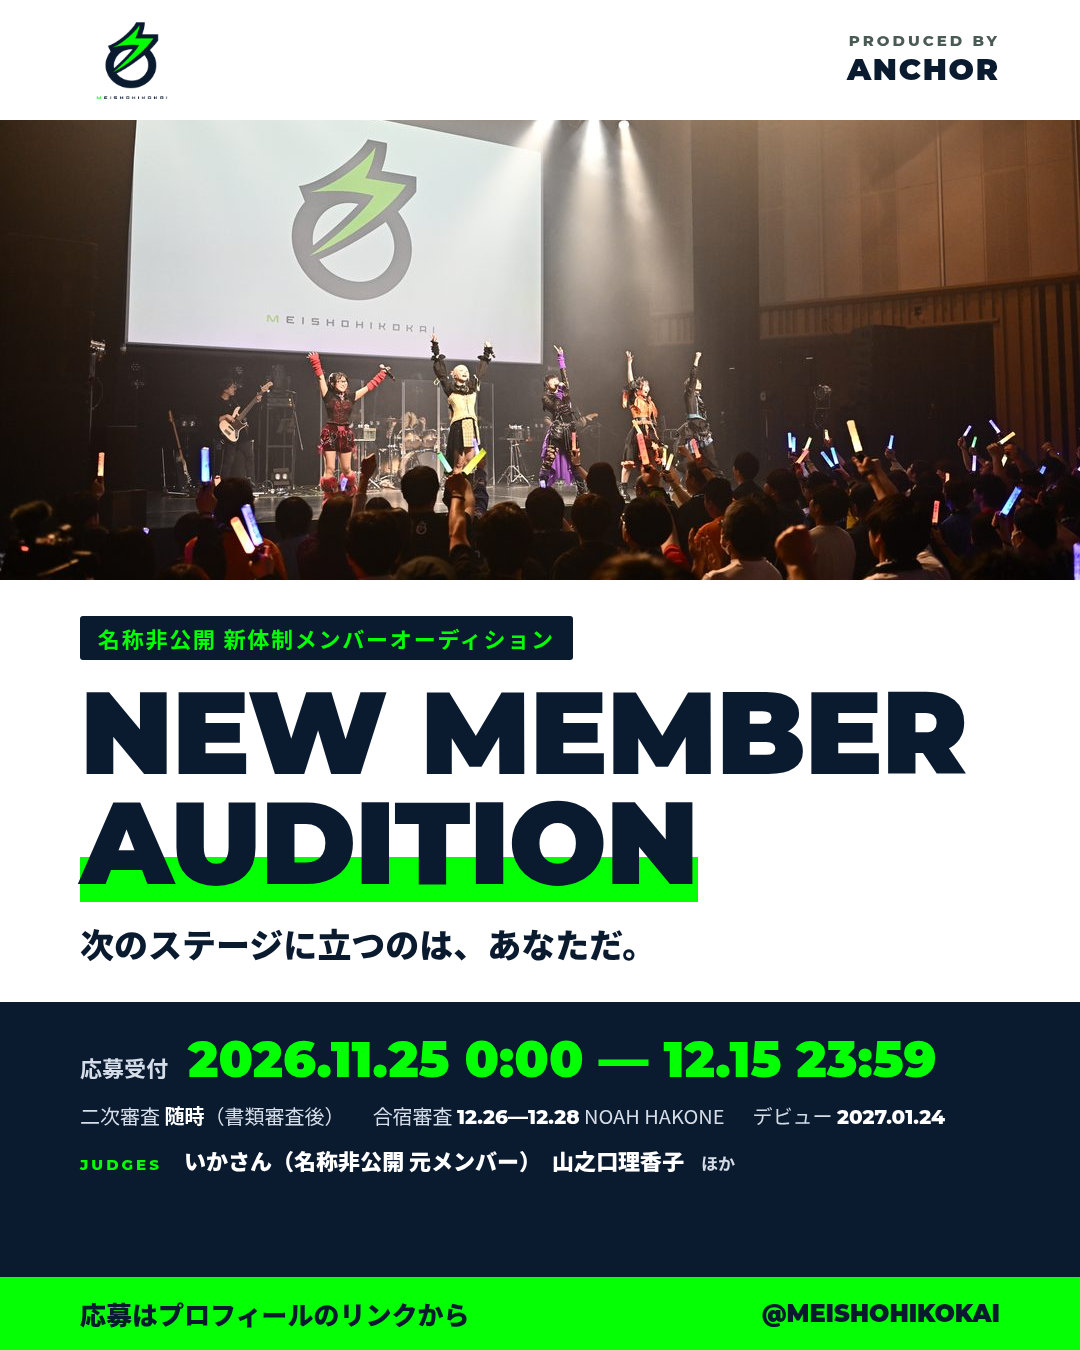
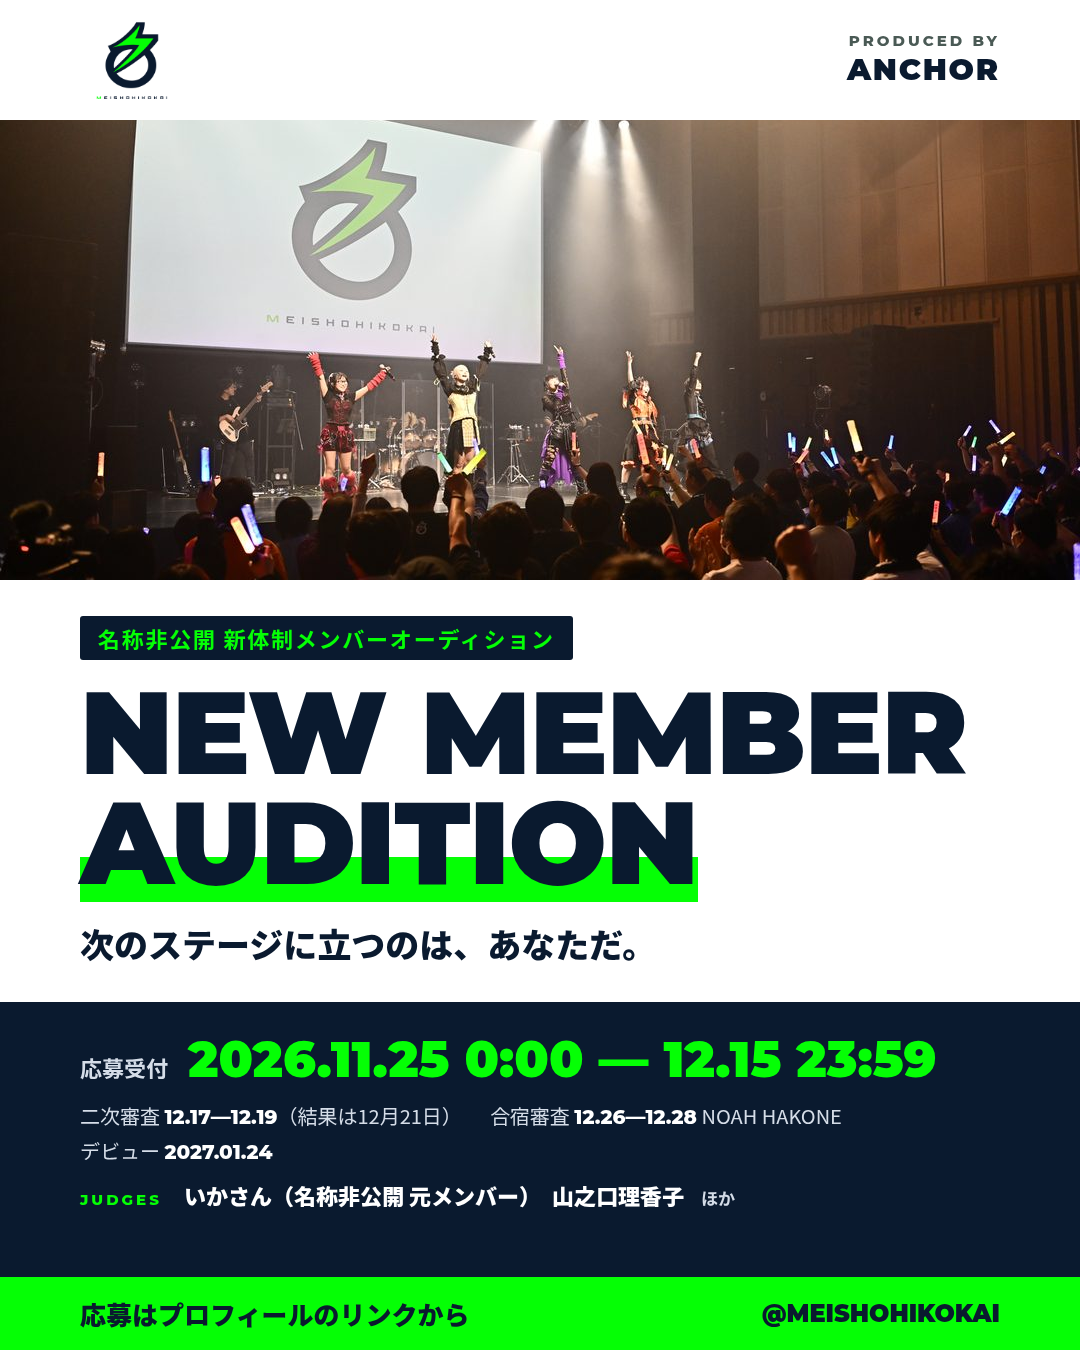
Set second-round dates to Dec 17-19 with results on Dec 21
Replace the rolling "as needed" wording on the landing page, flyer, and SNS assets with the confirmed window and result date. First-round results by Dec 15 and the Dec 26-28 camp stay unchanged.

Changed region(s): [[0.0611, 0.8089, 0.8861, 0.9022]]

diff --git a/index.html b/index.html
@@ -300,7 +300,7 @@ html.has-sticky-entry{padding-bottom:var(--sticky-h,80px)}
 <ol class="stages stagger">
 <li><p class="name">応募受付</p><p class="when">11月25日(水)0:00〜<span class="nowrap">12月15日(火)23:59</span></p><p class="desc">先着順ではありません。</p></li>
 <li><p class="name">一次審査（書類・動画）</p><p class="when">書類・動画による審査</p><p class="result">結果 12月15日(火)までに順次ご連絡</p></li>
-<li><p class="name">二次審査（対面）</p><p class="when">書類審査後、随時実施</p><p class="result">日時は個別にご案内します</p></li>
+<li><p class="name">二次審査（対面）</p><p class="when">12月17日(木)〜19日(土)</p><p class="result">結果 12月21日(月)／日時は個別にご案内します</p></li>
 <li><p class="name">三次審査（合宿・2泊3日）</p><p class="when">12月26日(土)〜28日(月)・NOAH HAKONE（箱根）</p><p class="desc">顔合わせ、グループ課題、最終パフォーマンス。</p></li>
 <li><p class="name">デビュー</p><p class="when">2027年1月24日(日)</p></li>
 <li><p class="name">本格始動</p><p class="when">2027年5月23日(日)</p></li>
@@ -418,7 +418,7 @@ html.has-sticky-entry{padding-bottom:var(--sticky-h,80px)}
 <details class="q"><summary><span class="ql">Q3</span><span class="qtext">審査結果はどのように<span class="nowrap">届きますか？</span></span></summary><div class="answer"><p>審査結果のご連絡は、名称非公開公式LINEから<span class="nowrap">お送りします。</span>一次審査の結果は、12月15日(火)までに通過した方へ順次ご連絡します。公式LINEをブロックしないようにお願いします。SNSでお声がけする場合は、名称非公開の公式アカウントからのみご連絡します。</p></div></details>
 <details class="q"><summary><span class="ql">Q4</span><span class="qtext">他の事務所に所属していても応募できますか？</span></summary><div class="answer"><p>ご応募いただけます。応募後に、所属先へ確認のご連絡をさせていただく場合があります。</p></div></details>
 <details class="q"><summary><span class="ql">Q5</span><span class="qtext">動画はスマートフォンで撮影してもいいですか？</span></summary><div class="answer"><p>問題ありません。秒数の指定はなく、縦・横、曲は自由です。過度な加工は避けてください。</p></div></details>
-<details class="q"><summary><span class="ql">Q6</span><span class="qtext">遠方のため、二次審査に行けないかもしれません。</span></summary><div class="answer"><p>二次審査は書類審査後に随時実施し、日時は個別にご案内します。オンラインでの参加もご相談いただけます。</p></div></details>
+<details class="q"><summary><span class="ql">Q6</span><span class="qtext">遠方のため、二次審査に行けないかもしれません。</span></summary><div class="answer"><p>二次審査は12月17日(木)〜19日(土)に対面で実施します。日時は個別にご案内します。オンラインでの参加もご相談いただけます。</p></div></details>
 <details class="q"><summary><span class="ql">Q7</span><span class="qtext">合宿に参加できない<span class="nowrap">場合は？</span></span></summary><div class="answer"><p>フォームまたは公式LINEでご相談ください。</p></div></details>
 <details class="q"><summary><span class="ql">Q8</span><span class="qtext">合格したら、いつから<span class="nowrap">活動しますか？</span></span></summary><div class="answer"><p>2027年1月24日(日)にデビューし、1月下旬からライブに参加いただきます。5月23日(日)から本格始動します。活動拠点は東京です。</p></div></details>
 <details class="q"><summary><span class="ql">Q9</span><span class="qtext">お問い合わせはどこへすれば<span class="nowrap">いいですか？</span></span></summary><div class="answer"><p><a href="https://lin.ee/9cqyKYC" target="_blank" rel="noopener">公式LINEよりお問い合わせください（対応時間：平日10:00〜18:00。土日祝は翌営業日にご返信します）</a></p><p>メール：<a href="mailto:management@meisho.tokyo">management@meisho.tokyo</a></p></div></details>

diff --git a/flyer_a4.html b/flyer_a4.html
@@ -35,7 +35,7 @@ body{margin:0;background:#FFFFFF}
 <div style="flex: 1 1 auto; min-width: 0; display: flex; flex-direction: column; gap: 18px">
 <div style="display: flex; flex-direction: column; gap: 6px">
 <div style="display: flex; align-items: baseline; gap: 14px; border-bottom: 1px solid #2A3D57; padding-bottom: 6px"><span style="flex: 0 0 132px; font-size: 14px; font-weight: 700; color: #D5DDE8">応募受付</span><span style="font-family: 'Montserrat', sans-serif; font-size: 24px; font-weight: 900; color: var(--accent)">11.25 0:00 — 12.15 23:59</span></div>
-<div style="display: flex; align-items: baseline; gap: 14px; border-bottom: 1px solid #2A3D57; padding-bottom: 6px"><span style="flex: 0 0 132px; font-size: 14px; font-weight: 700; color: #D5DDE8">二次審査（対面）</span><span style="font-family: 'Montserrat', sans-serif; font-size: 18px; font-weight: 800">書類審査後、随時</span><span style="font-size: 12px; color: #D5DDE8">日時は個別にご案内</span></div>
+<div style="display: flex; align-items: baseline; gap: 14px; border-bottom: 1px solid #2A3D57; padding-bottom: 6px"><span style="flex: 0 0 132px; font-size: 14px; font-weight: 700; color: #D5DDE8">二次審査（対面）</span><span style="font-family: 'Montserrat', sans-serif; font-size: 18px; font-weight: 800">12.17 — 12.19</span><span style="font-size: 12px; color: #D5DDE8">結果は12月21日（月）</span></div>
 <div style="display: flex; align-items: baseline; gap: 14px; border-bottom: 1px solid #2A3D57; padding-bottom: 6px"><span style="flex: 0 0 132px; font-size: 14px; font-weight: 700; color: #D5DDE8">三次審査（合宿）</span><span style="font-family: 'Montserrat', sans-serif; font-size: 18px; font-weight: 800">12.26 — 12.28</span><span style="font-size: 12px; color: #D5DDE8">NOAH HAKONE・2泊3日</span></div>
 <div style="display: flex; align-items: baseline; gap: 14px"><span style="flex: 0 0 132px; font-size: 14px; font-weight: 700; color: #D5DDE8">デビュー</span><span style="font-family: 'Montserrat', sans-serif; font-size: 18px; font-weight: 800">2027.01.24</span></div>
 </div>

diff --git a/sns_feed_1080x1350.html b/sns_feed_1080x1350.html
@@ -33,7 +33,7 @@ body{margin:0;background:#FFFFFF}
 
 <div style="flex: 1 1 auto; background: #0A1A2F; color: #FFFFFF; box-sizing: border-box; padding: 30px 80px 0; display: flex; flex-direction: column; gap: 14px">
 <div style="display: flex; align-items: baseline; gap: 20px"><span style="font-size: 22px; font-weight: 700; color: #D5DDE8">応募受付</span><span style="font-family: 'Montserrat', sans-serif; font-size: 50px; font-weight: 900; color: var(--accent); line-height: 1.1">2026.11.25 0:00 — 12.15 23:59</span></div>
-<div style="display: flex; flex-wrap: wrap; gap: 6px 28px; font-size: 20px; color: #D5DDE8"><span>二次審査 <b style="font-family: 'Montserrat', sans-serif; color: #FFFFFF">随時</b>（書類審査後）</span><span>合宿審査 <b style="font-family: 'Montserrat', sans-serif; color: #FFFFFF">12.26—12.28</b> NOAH HAKONE</span><span>デビュー <b style="font-family: 'Montserrat', sans-serif; color: #FFFFFF">2027.01.24</b></span></div>
+<div style="display: flex; flex-wrap: wrap; gap: 6px 28px; font-size: 20px; color: #D5DDE8"><span>二次審査 <b style="font-family: 'Montserrat', sans-serif; color: #FFFFFF">12.17—12.19</b>（結果は12月21日）</span><span>合宿審査 <b style="font-family: 'Montserrat', sans-serif; color: #FFFFFF">12.26—12.28</b> NOAH HAKONE</span><span>デビュー <b style="font-family: 'Montserrat', sans-serif; color: #FFFFFF">2027.01.24</b></span></div>
 <div style="font-size: 22px; font-weight: 900"><span style="font-family: 'Montserrat', sans-serif; font-size: 15px; font-weight: 800; letter-spacing: 0.2em; color: var(--accent)">JUDGES</span>　いかさん（名称非公開 元メンバー）　山之口理香子<span style="font-size: 17px; font-weight: 700; color: #D5DDE8">　ほか</span></div>
 <div style="margin-top: auto; margin-left: -80px; margin-right: -80px; background: var(--accent); color: #0A1A2F; padding: 18px 80px; display: flex; justify-content: space-between; align-items: center">
 <span style="font-size: 26px; font-weight: 900">応募はプロフィールのリンクから</span>

diff --git a/sns_story_1080x1920.html b/sns_story_1080x1920.html
@@ -30,7 +30,7 @@ body{margin:0;background:#FFFFFF}
 <div style="flex: 1 1 auto; background: #0A1A2F; color: #FFFFFF; box-sizing: border-box; padding: 44px 80px 0; display: flex; flex-direction: column; gap: 16px">
 <div style="font-size: 24px; font-weight: 700; color: #D5DDE8">応募受付</div>
 <div style="font-family: 'Montserrat', sans-serif; font-size: 66px; font-weight: 900; color: var(--accent); line-height: 1">11.25 0:00 — 12.15 23:59</div>
-<div style="display: flex; flex-wrap: wrap; gap: 8px 32px; font-size: 24px; color: #D5DDE8; margin-top: 6px"><span>二次審査 <b style="font-family: 'Montserrat', sans-serif; color: #FFFFFF">随時</b>（書類審査後）</span><span>合宿審査 <b style="font-family: 'Montserrat', sans-serif; color: #FFFFFF">12.26—12.28</b> NOAH HAKONE</span><span>デビュー <b style="font-family: 'Montserrat', sans-serif; color: #FFFFFF">2027.01.24</b></span></div>
+<div style="display: flex; flex-wrap: wrap; gap: 8px 32px; font-size: 24px; color: #D5DDE8; margin-top: 6px"><span>二次審査 <b style="font-family: 'Montserrat', sans-serif; color: #FFFFFF">12.17—12.19</b>（結果は12月21日）</span><span>合宿審査 <b style="font-family: 'Montserrat', sans-serif; color: #FFFFFF">12.26—12.28</b> NOAH HAKONE</span><span>デビュー <b style="font-family: 'Montserrat', sans-serif; color: #FFFFFF">2027.01.24</b></span></div>
 <div style="font-size: 26px; font-weight: 900; margin-top: 6px"><span style="font-family: 'Montserrat', sans-serif; font-size: 18px; font-weight: 800; letter-spacing: 0.2em; color: var(--accent)">JUDGES</span>　いかさん（名称非公開 元メンバー）　山之口理香子<span style="font-size: 20px; font-weight: 700; color: #D5DDE8">　ほか</span></div>
 <div style="margin-top: 14px; align-self: center; background: var(--accent); color: #0A1A2F; padding: 18px 44px; border-radius: 999px; font-size: 30px; font-weight: 900">↓ リンクから応募する</div>
 </div>
